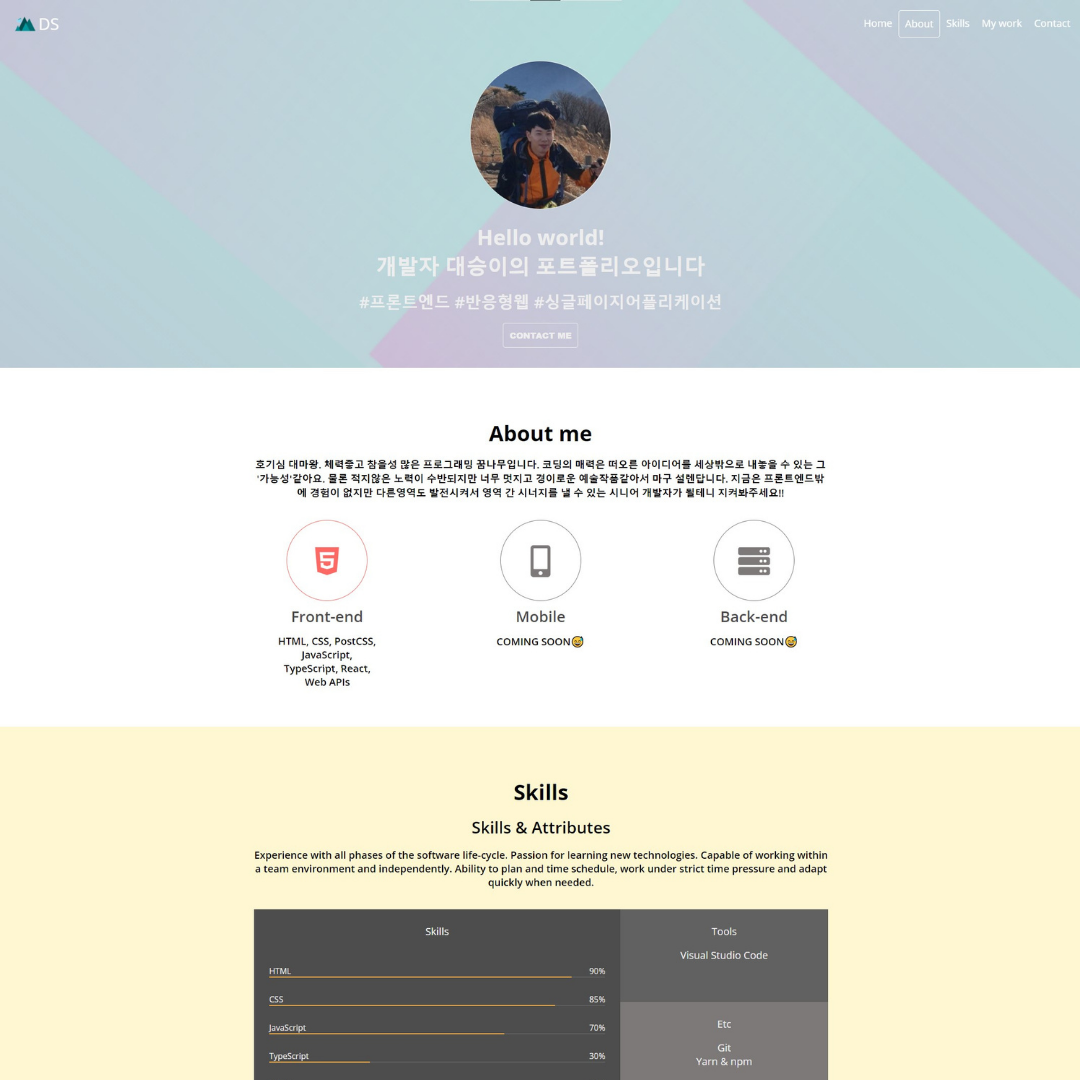
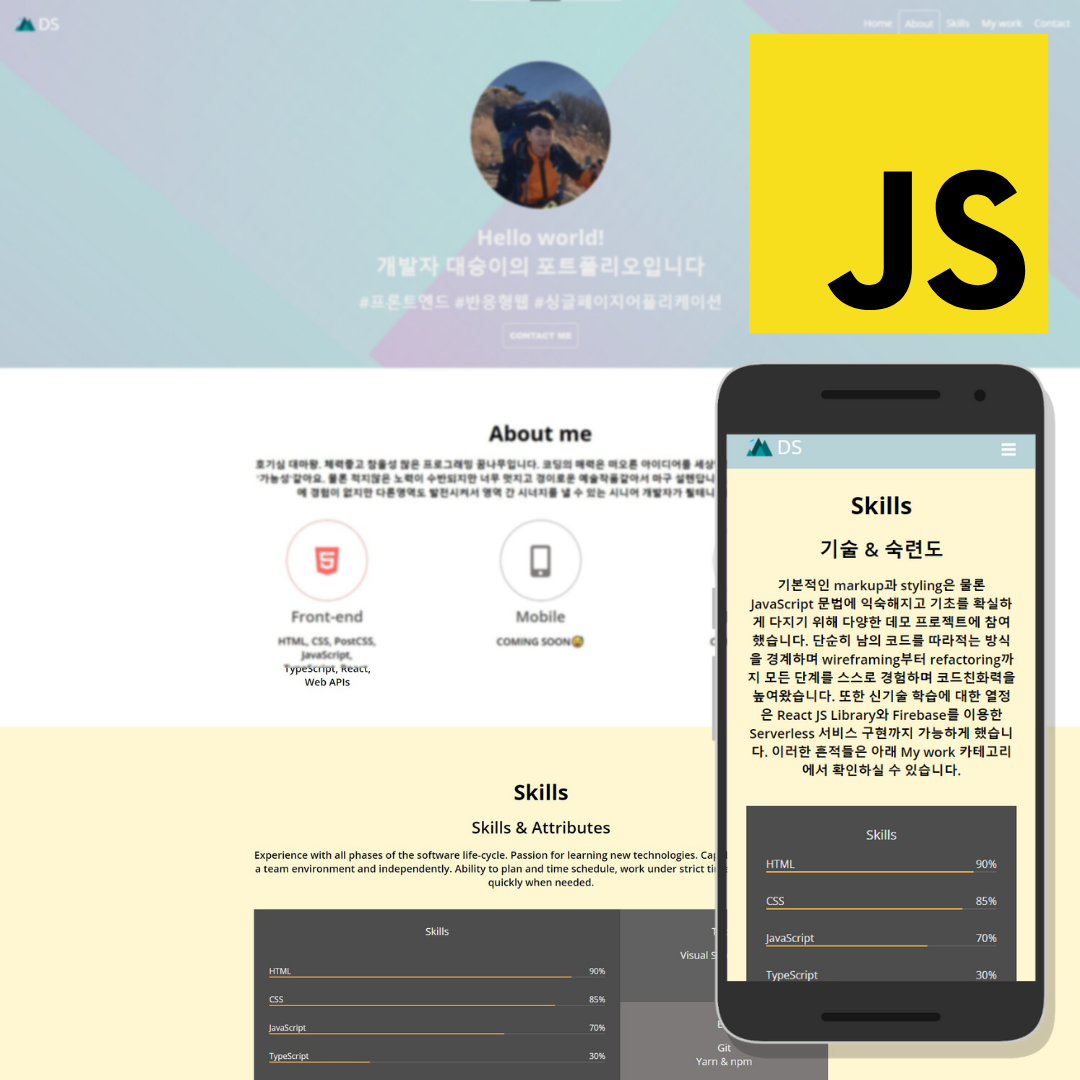
add projects,
add Cardmaker, img upload, #about__card__desciprion mobile width, initial navbar item select

diff --git a/index.html b/index.html
@@ -206,11 +206,10 @@
             </div>
                 <div class="work__item" data-type="front-end">
                     <a
-                    
                     href="#a" 
                     target="blank">
                     <img 
-                    src="./imgs/yout.png" 
+                    src="./imgs/youtube.png" 
                     class="work__item__img">
                 <div class="work__item__onmouse">
                     <h3 class="work__item__onmouse__title">myYoutube</h3>
@@ -249,11 +248,11 @@
                     href="https://github.com/ips3471/card-maker" 
                     target="blank">
                     <img 
-                    src="./imgs/favicon.png" 
+                    src="./imgs/cardmaker.png" 
                     class="work__item__img">
                 <div class="work__item__onmouse">
-                    <h3 class="work__item__onmouse__title">Card-maker</h3>
-                    <span class="work__item__onmouse__description">Clone coding with HTML and CSS</span>
+                    <h3 class="work__item__onmouse__title">Business-card-maker</h3>
+                    <span class="work__item__onmouse__description">실시간으로 업데이트되는 명함생성기</span>
                 </div>
                     </a>
             </div>

diff --git a/main.js b/main.js
@@ -135,8 +135,9 @@ const sectionIds = [
 ];
 const sections = sectionIds.map(id => document.querySelector(id));
 const navItems = sectionIds.map(id => document.querySelector(`[data-link="${id}"]`));
-let selectedNavItem = navItems[0];
+let selectedNavItem;
 let selectedNavIndex;
+selectNavMenu(navItems[0]);
 const observerOptions = {
     root: null, //viewport
     rootMargin: '0px',
@@ -152,10 +153,8 @@ function skillsValueAnimation(boal) {
     skillValues.forEach(value => {
         if (boal === true) {
             value.classList.add('active');
-            console.log('true');
         } else {
             value.classList.remove('active');
-            console.log('false');
         }
     })}
 

diff --git a/style.css b/style.css
@@ -686,6 +686,7 @@ p {
 	}
 	.about__card__description {
 		padding-bottom: 1rem;
+		width: 80vw;
 	}
 
 	/* Skills */
